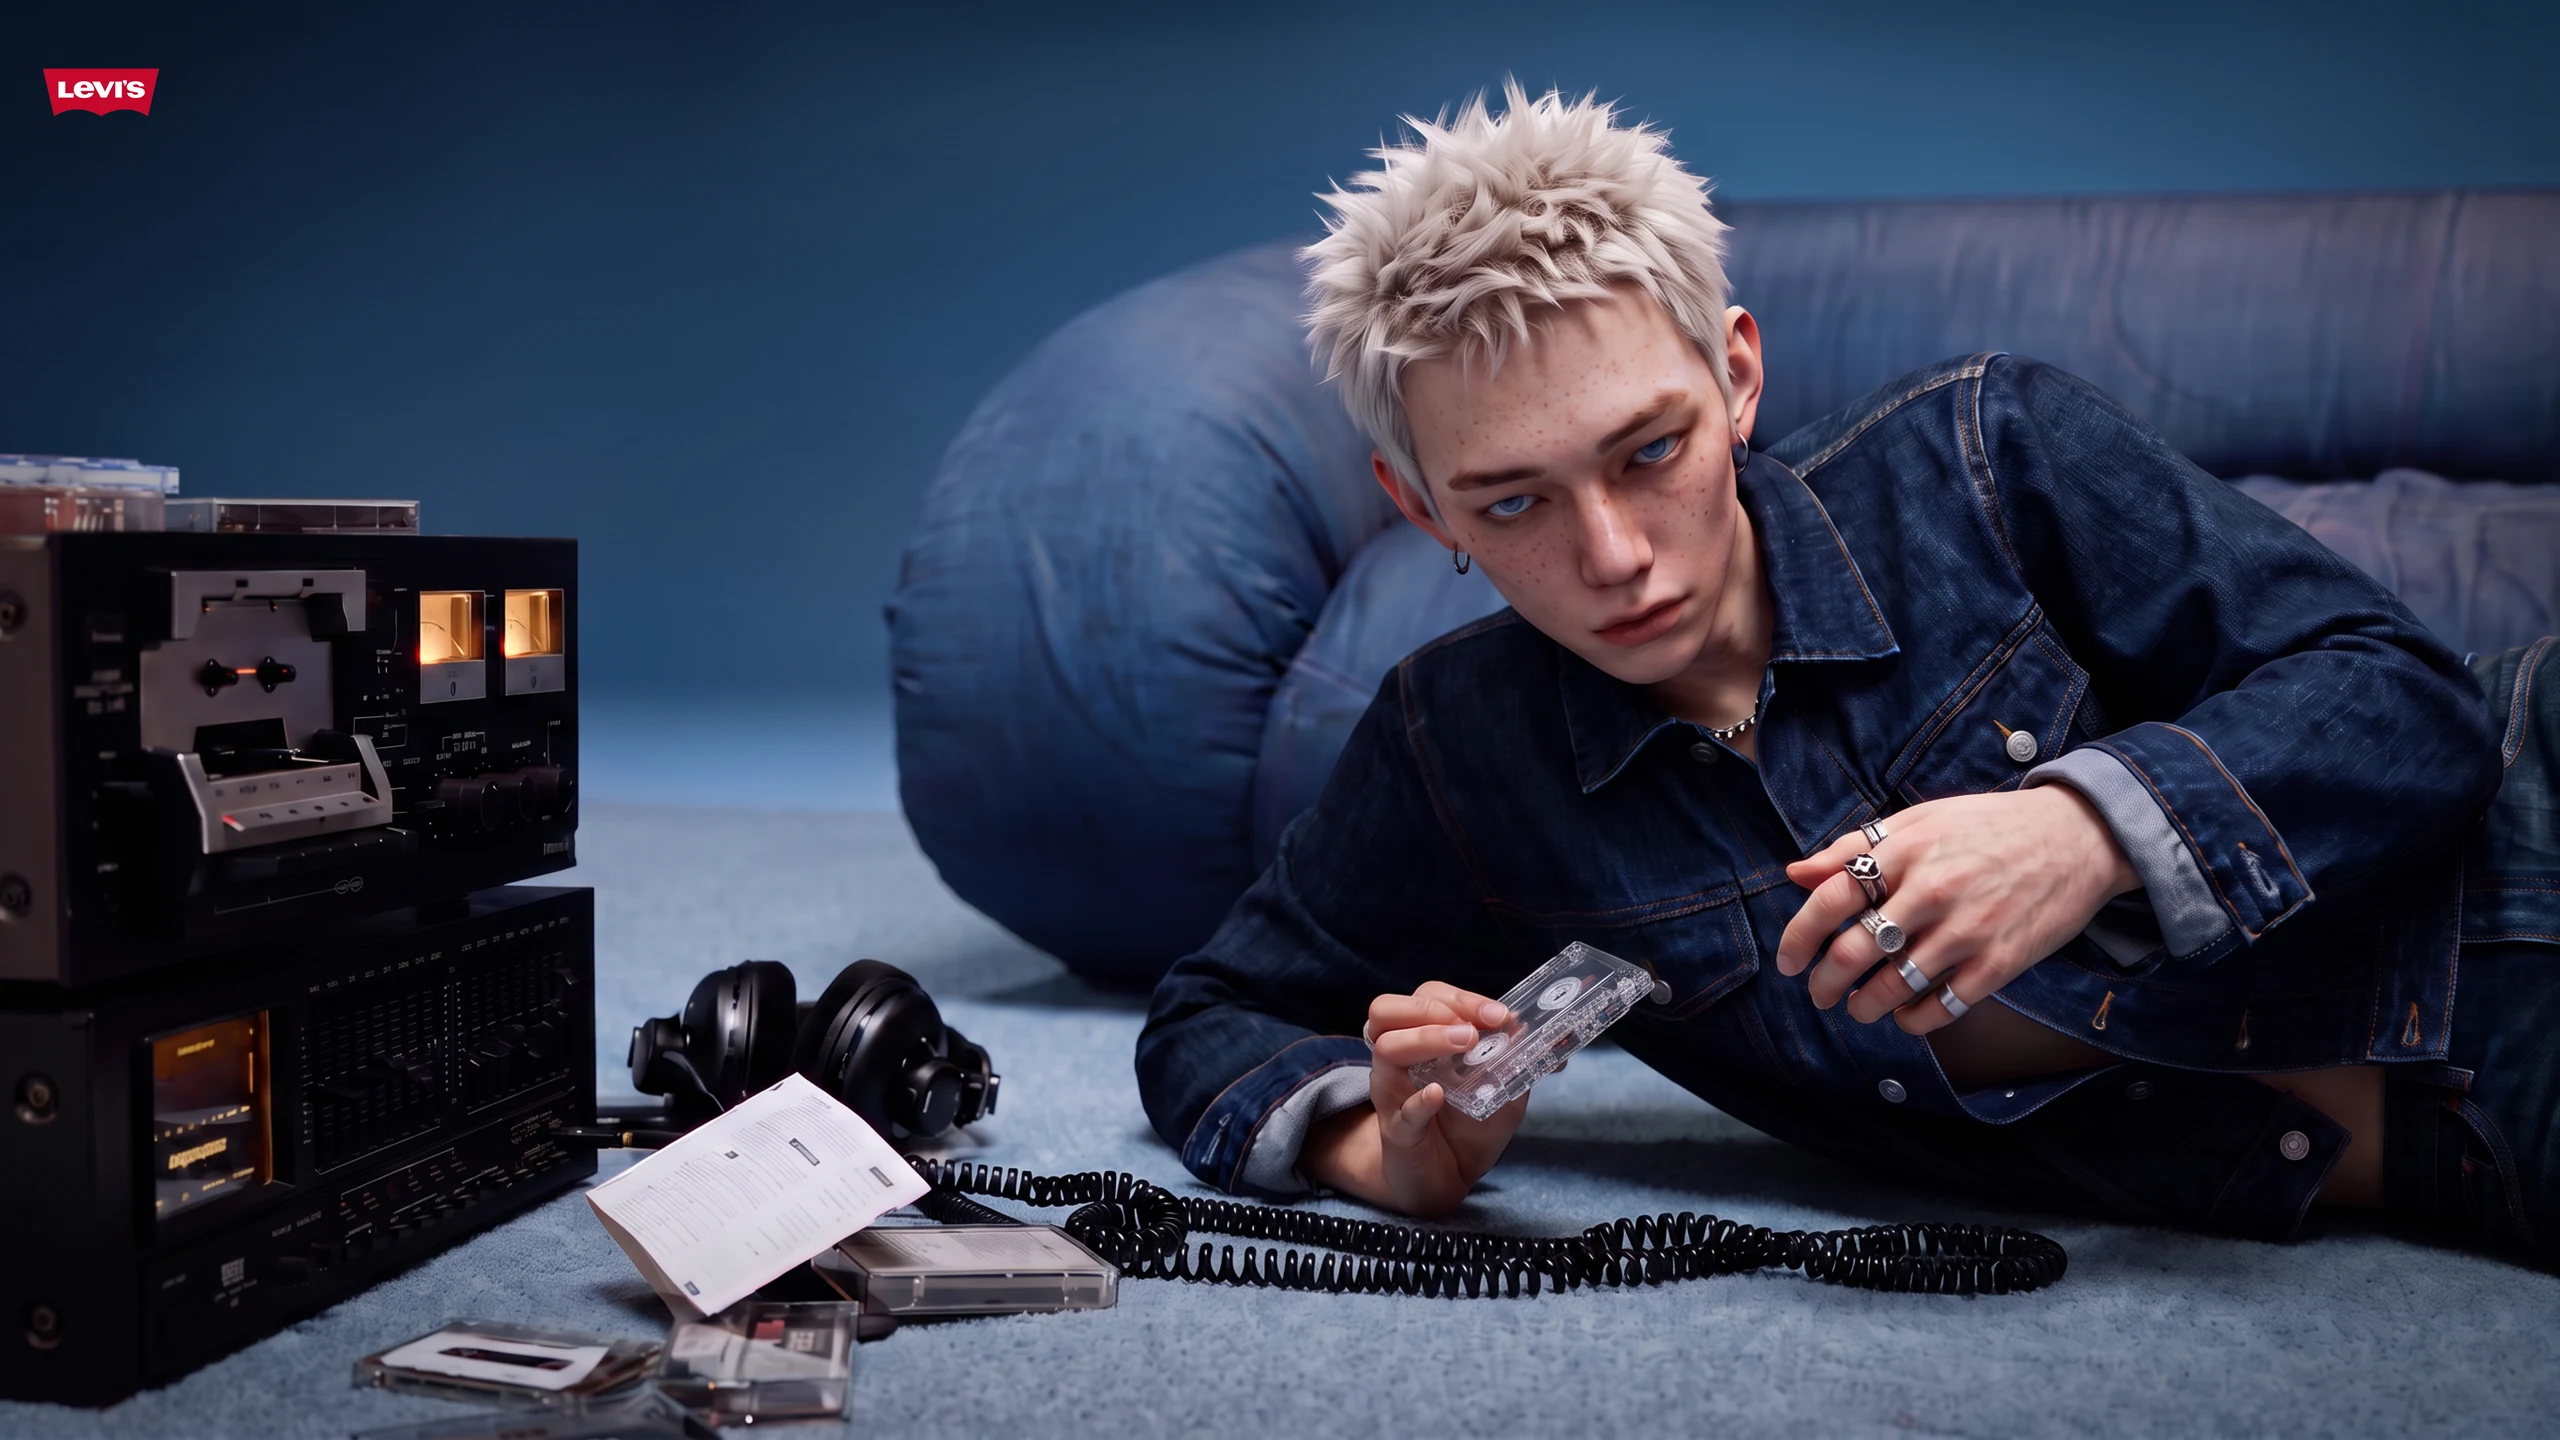
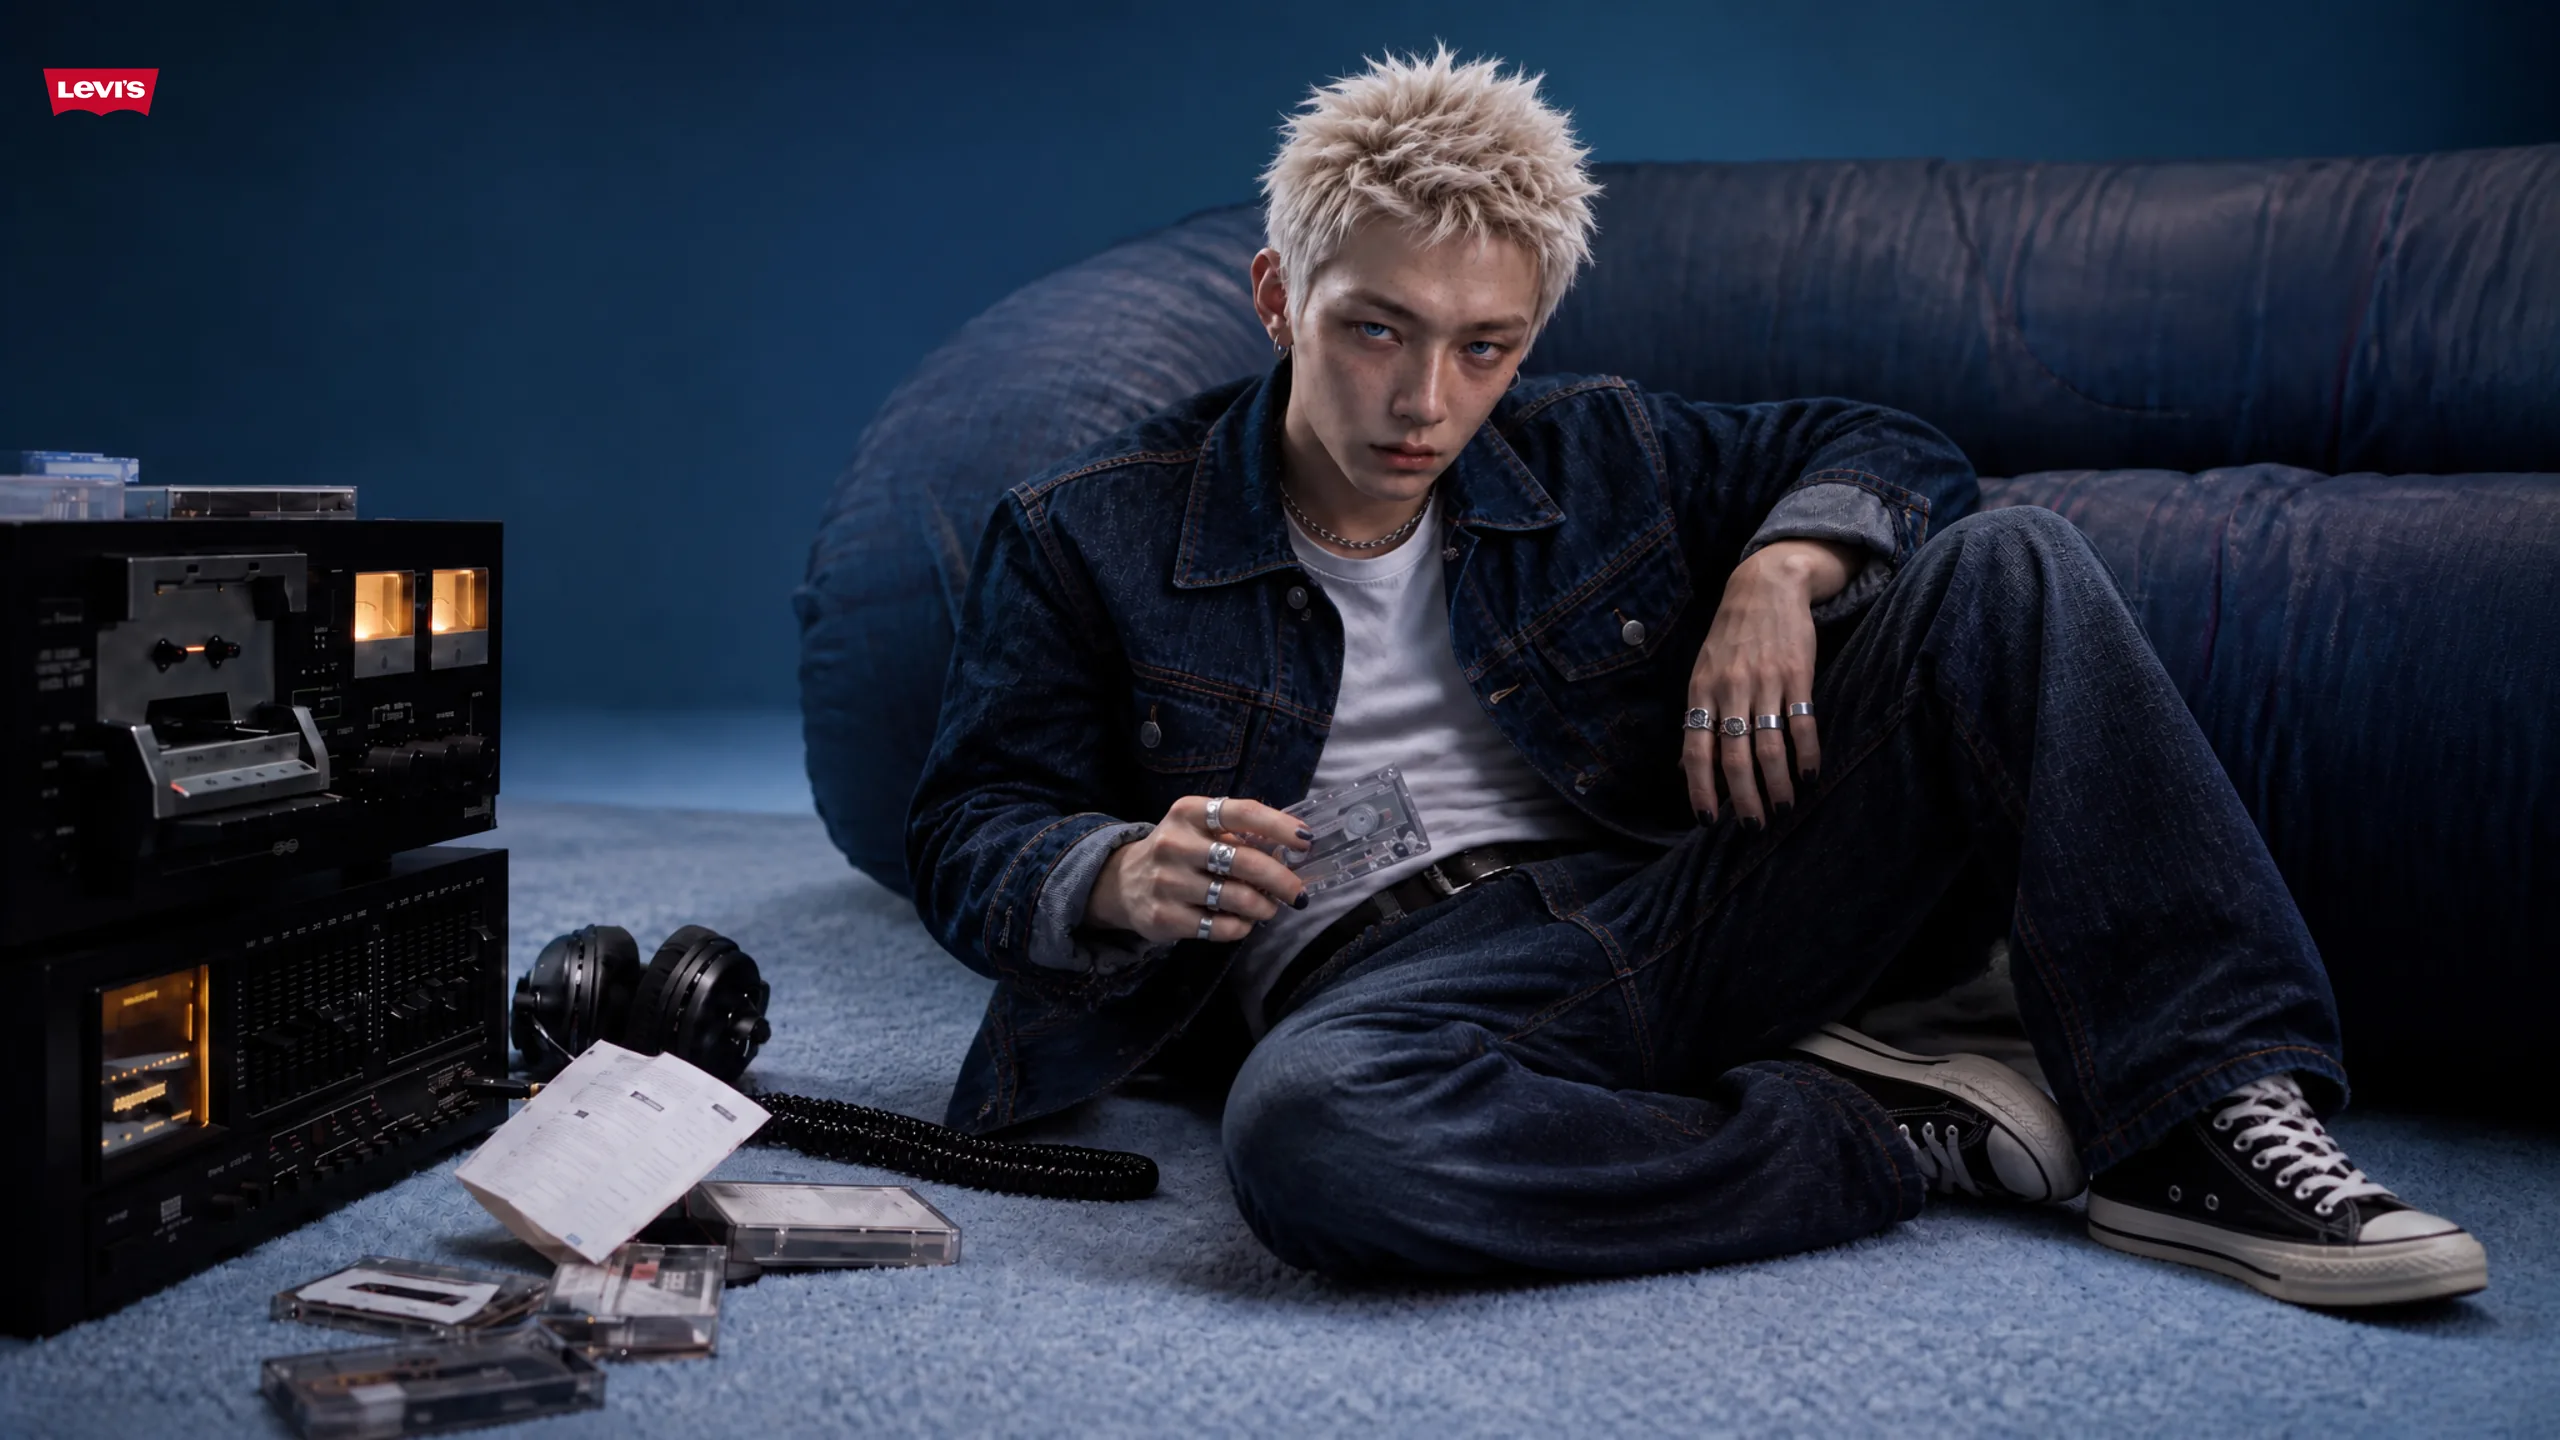
project-virtual: KV 02 换成深蓝影棚卡带音响横版大片

diff --git a/public/project-virtual.html b/public/project-virtual.html
@@ -256,7 +256,7 @@ body.js .dg{height:660vh}
 
 <div class="wide" style="margin-top:40px">
 <figure class="media"><img src="/pages/virtual-kv-1.webp" width="2560" height="1440" alt="虚拟人 × Levi's 联名主视觉：黑皮沙发丹宁大片与红标 Logo 拼版" fetchpriority="high"></figure>
-<figure class="media"><img src="/pages/virtual-kv-2.webp" width="2560" height="1440" alt="Levi's 联名 campaign 视觉延展：复古黑胶与卡带场景" loading="lazy" decoding="async"></figure>
+<figure class="media"><img src="/pages/virtual-kv-2.webp" width="2560" height="1440" alt="Levi's 联名 campaign 视觉延展：深蓝影棚卡带音响场景" loading="lazy" decoding="async"></figure>
 </div>
 </div>
 </div>
